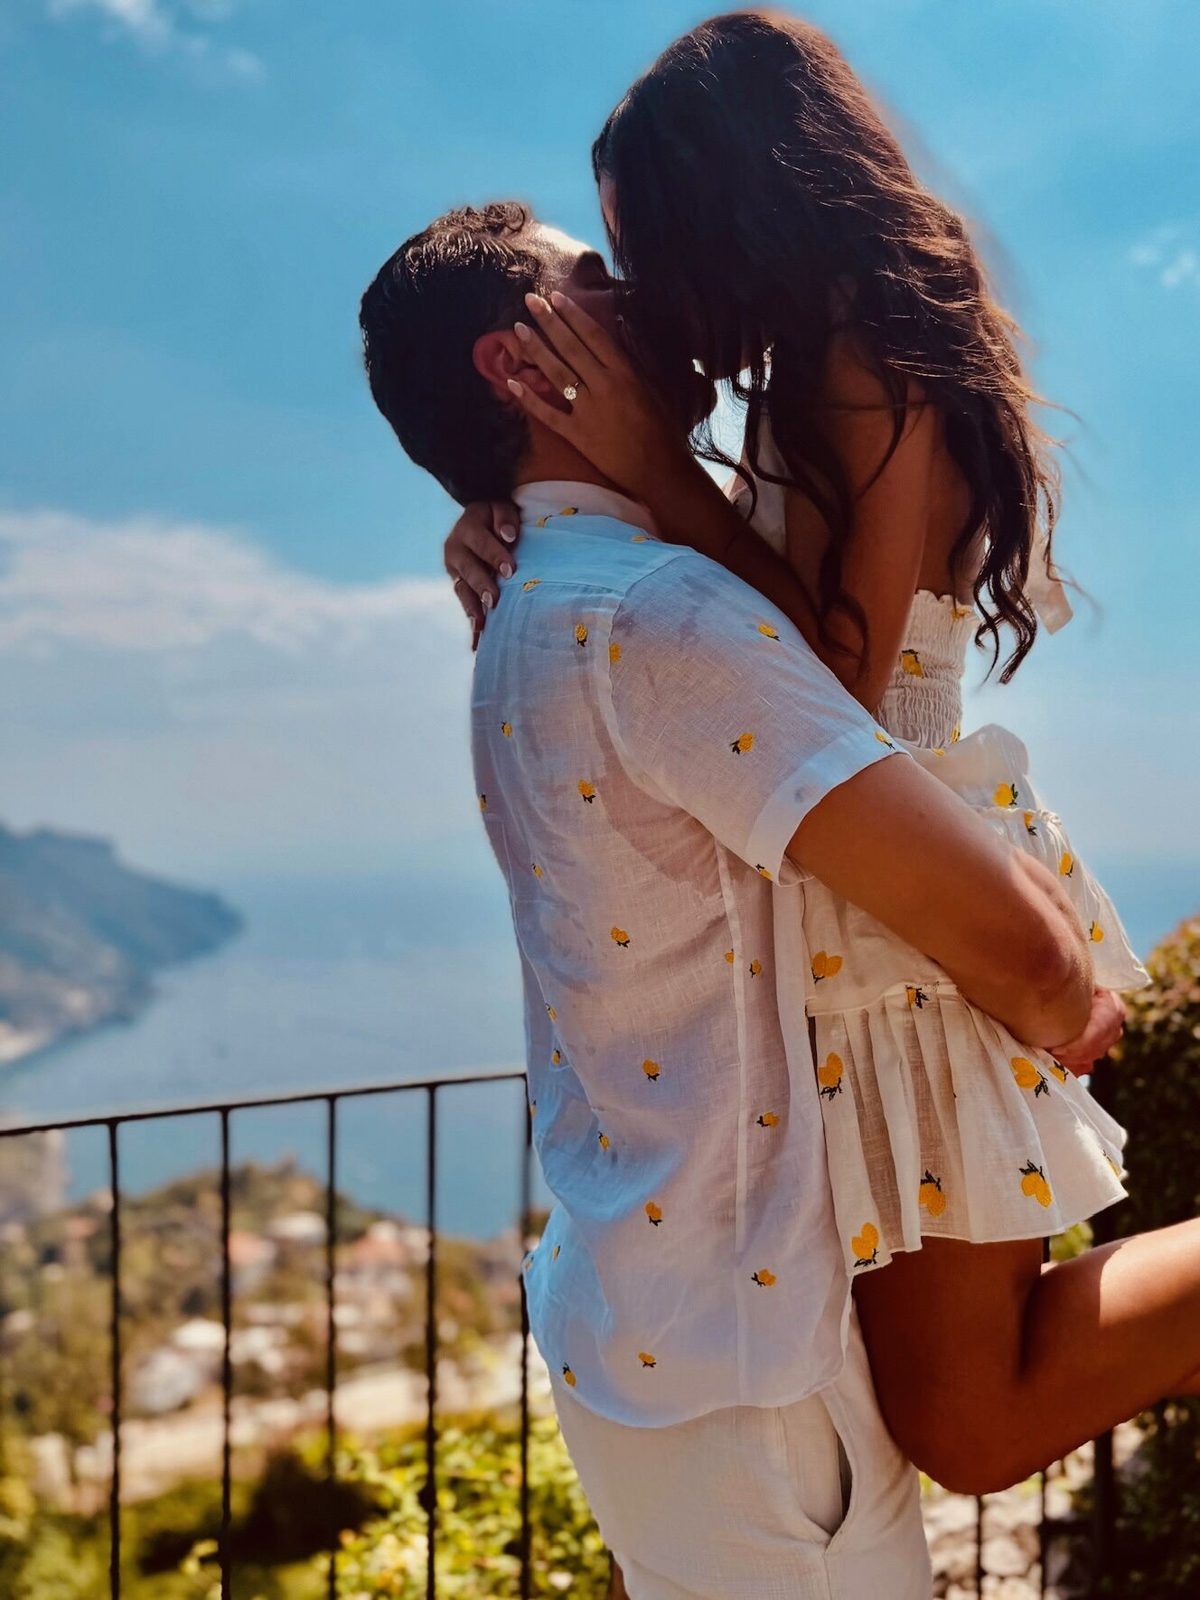
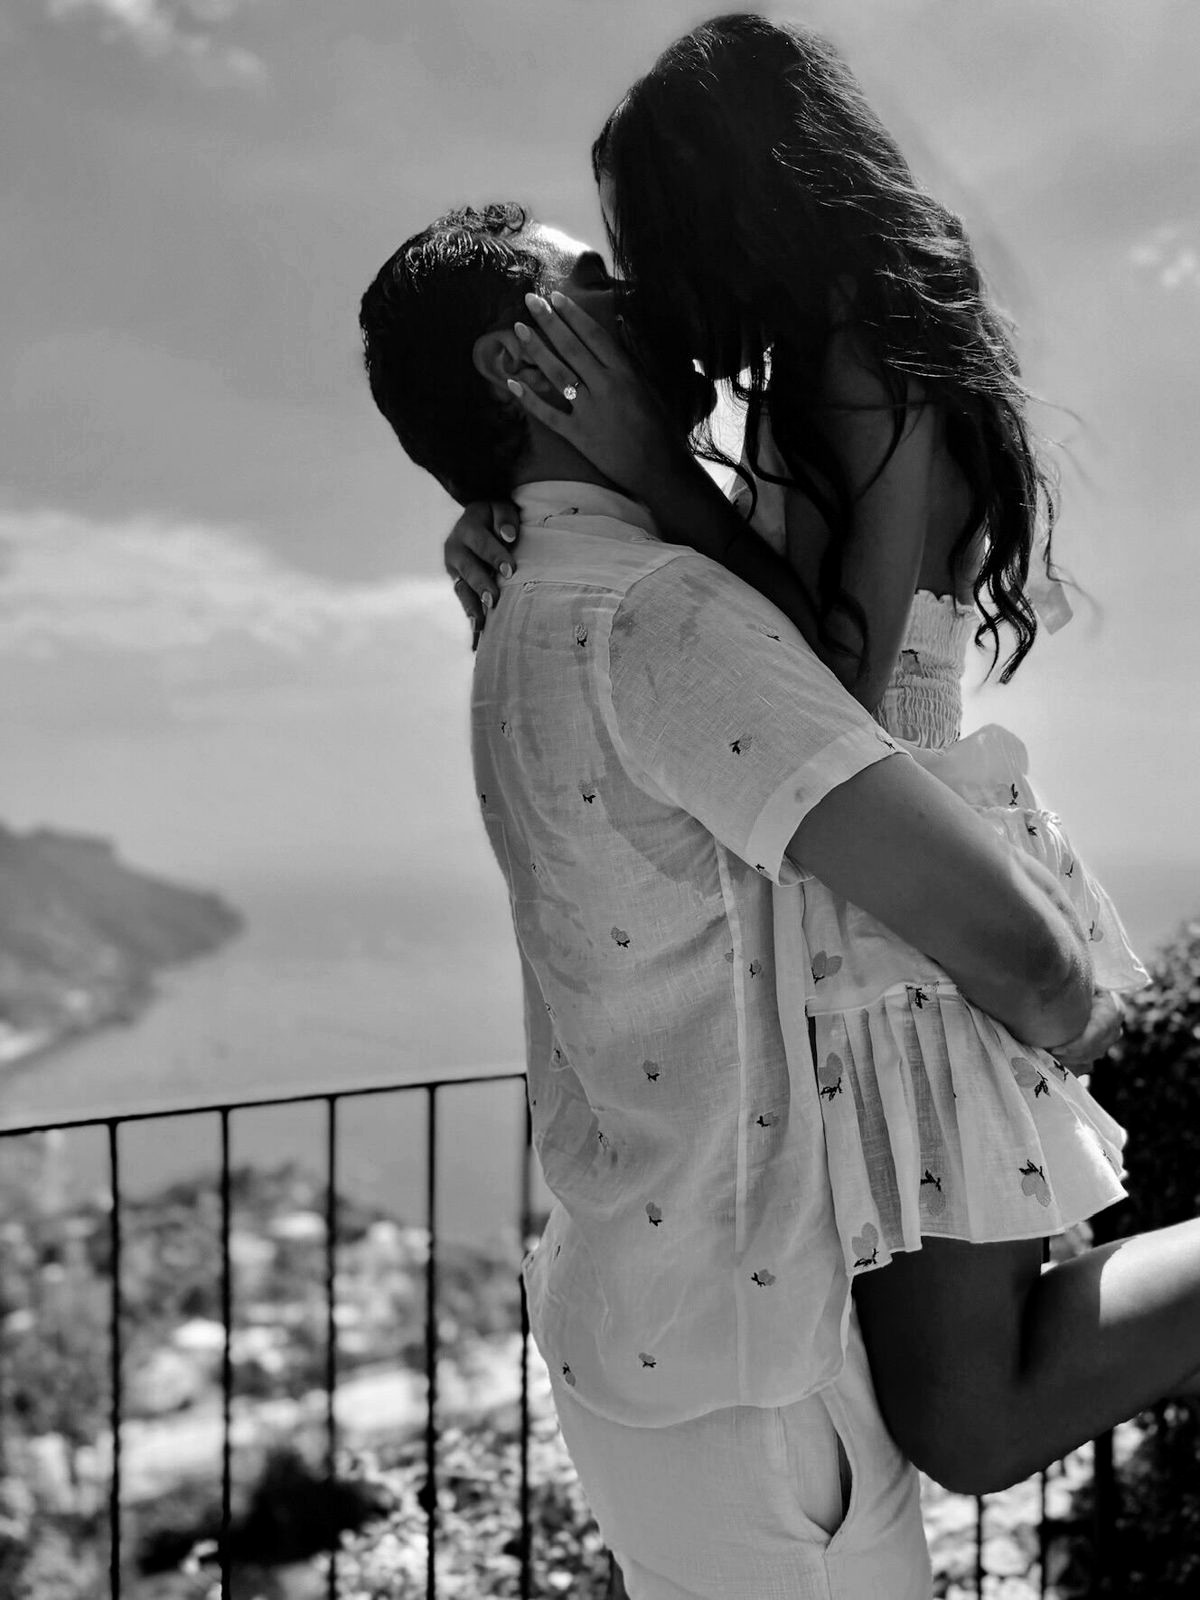
Switch default palette to noir and convert gallery to black and white
Make the site open in the black-and-white theme, with the red rose as the only color accent, and convert the existing couple photos to black and white (jpg and webp).

diff --git a/index.html b/index.html
@@ -1,6 +1,6 @@
 <!doctype html>
-<!-- Change the default color palette here: burgundy | noir | ivory | amalfi | midnight | sage  (see theme.css) -->
-<html lang="en" data-theme="burgundy">
+<!-- Change the default color palette here: noir | burgundy | ivory | amalfi | midnight | sage  (see theme.css) -->
+<html lang="en" data-theme="noir">
 <head>
 <meta charset="utf-8">
 <meta name="viewport" content="width=device-width, initial-scale=1, viewport-fit=cover">
@@ -9,7 +9,7 @@
 <meta property="og:title" content="Estefania &amp; James · 10.16.2027">
 <meta property="og:description" content="Pete Dye Golf Club · Bridgeport, WV">
 <meta property="og:image" content="assets/photos/hero.jpg">
-<meta name="theme-color" content="#6B1E24">
+<meta name="theme-color" content="#111111">
 <link rel="icon" type="image/png" sizes="32x32" href="assets/brand/favicon-32.png">
 <link rel="icon" type="image/png" sizes="48x48" href="assets/brand/favicon-48.png">
 <link rel="icon" href="assets/brand/favicon.ico" sizes="any">
@@ -120,9 +120,24 @@
     <div class="eyebrow reveal">Us</div>
     <h2 class="reveal">A few <em>favorites</em></h2>
     <div class="photos">
-      <figure class="reveal"><img src="assets/photos/hero.jpg" alt="James lifting Estefania for a kiss by the sea" loading="lazy"></figure>
-      <figure class="reveal"><img src="assets/photos/smile.jpg" alt="Estefania and James smiling at each other" loading="lazy"></figure>
-      <figure class="reveal"><img src="assets/photos/dance.jpg" alt="Estefania and James dancing under the trees" loading="lazy"></figure>
+      <figure class="reveal">
+        <picture>
+          <source type="image/webp" srcset="assets/photos/hero.webp">
+          <img src="assets/photos/hero.jpg" alt="James lifting Estefania for a kiss by the sea" loading="lazy" width="1200" height="1600">
+        </picture>
+      </figure>
+      <figure class="reveal">
+        <picture>
+          <source type="image/webp" srcset="assets/photos/smile.webp">
+          <img src="assets/photos/smile.jpg" alt="Estefania and James smiling at each other" loading="lazy" width="1200" height="1600">
+        </picture>
+      </figure>
+      <figure class="reveal">
+        <picture>
+          <source type="image/webp" srcset="assets/photos/dance.webp">
+          <img src="assets/photos/dance.jpg" alt="Estefania and James dancing under the trees" loading="lazy" width="760" height="1013">
+        </picture>
+      </figure>
     </div>
   </div>
 </section>

diff --git a/theme.css b/theme.css
@@ -1,8 +1,8 @@
 /* =====================================================================
    🎨  THEME — the ONE place to change the site's colors
    ---------------------------------------------------------------------
-   Easiest:  open index.html and change  data-theme="burgundy"  on the
-             <html> tag to  noir, ivory, amalfi, midnight, or sage.
+   Easiest:  open index.html and change  data-theme="noir"  on the
+             <html> tag to  burgundy, ivory, amalfi, midnight, or sage.
    Custom:   edit the 6 hex values in any block below (or the :root one).
              Every color on the site comes from these variables.
    Guests can also tap the color dots (bottom-right) to preview palettes;
@@ -10,7 +10,7 @@
    ===================================================================== */
 
 :root,
-[data-theme="burgundy"] {           /* default — matches the save-the-date stripes */
+[data-theme="burgundy"] {           /* burgundy — matches the save-the-date stripes */
   --bg:       #F5EEE4;  /* page background            */
   --surface:  #FFFFFF;  /* cards                      */
   --ink:      #2B1614;  /* main text                  */
@@ -50,7 +50,7 @@
   --on-accent:#F7FAF4;
 }
 
-[data-theme="noir"] {               /* crisp black & white, rose used sparingly */
+[data-theme="noir"] {               /* default — crisp black & white, rose used sparingly */
   --bg:       #F7F7F5;
   --surface:  #FFFFFF;
   --ink:      #111111;

diff --git a/styles.css b/styles.css
@@ -35,7 +35,7 @@ section{padding:clamp(4.5rem,11vw,8.5rem) 0;scroll-margin-top:64px}
 
 /* ---------- hero ---------- */
 .hero{position:relative;min-height:100svh;display:grid;align-items:end;padding:0 0 clamp(2.5rem,7vw,5rem);color:#fff;overflow:hidden}
-.hero .bg{position:absolute;inset:0;background:url(assets/photos/hero.jpg) center 8%/cover no-repeat;transform:scale(1.04);transform-origin:center 12%;animation:zoom 14s ease-out forwards}
+.hero .bg{position:absolute;inset:0;background:url(assets/photos/hero.jpg) center 8%/cover no-repeat;background-image:image-set(url(assets/photos/hero.webp) type("image/webp"),url(assets/photos/hero.jpg) type("image/jpeg"));background-position:center 8%;background-size:cover;background-repeat:no-repeat;transform:scale(1.04);transform-origin:center 12%;animation:zoom 14s ease-out forwards}
 @media (max-width:700px){
   .hero .bg{background-position:center top;transform-origin:center 8%;transform:scale(1.03)}
 }
